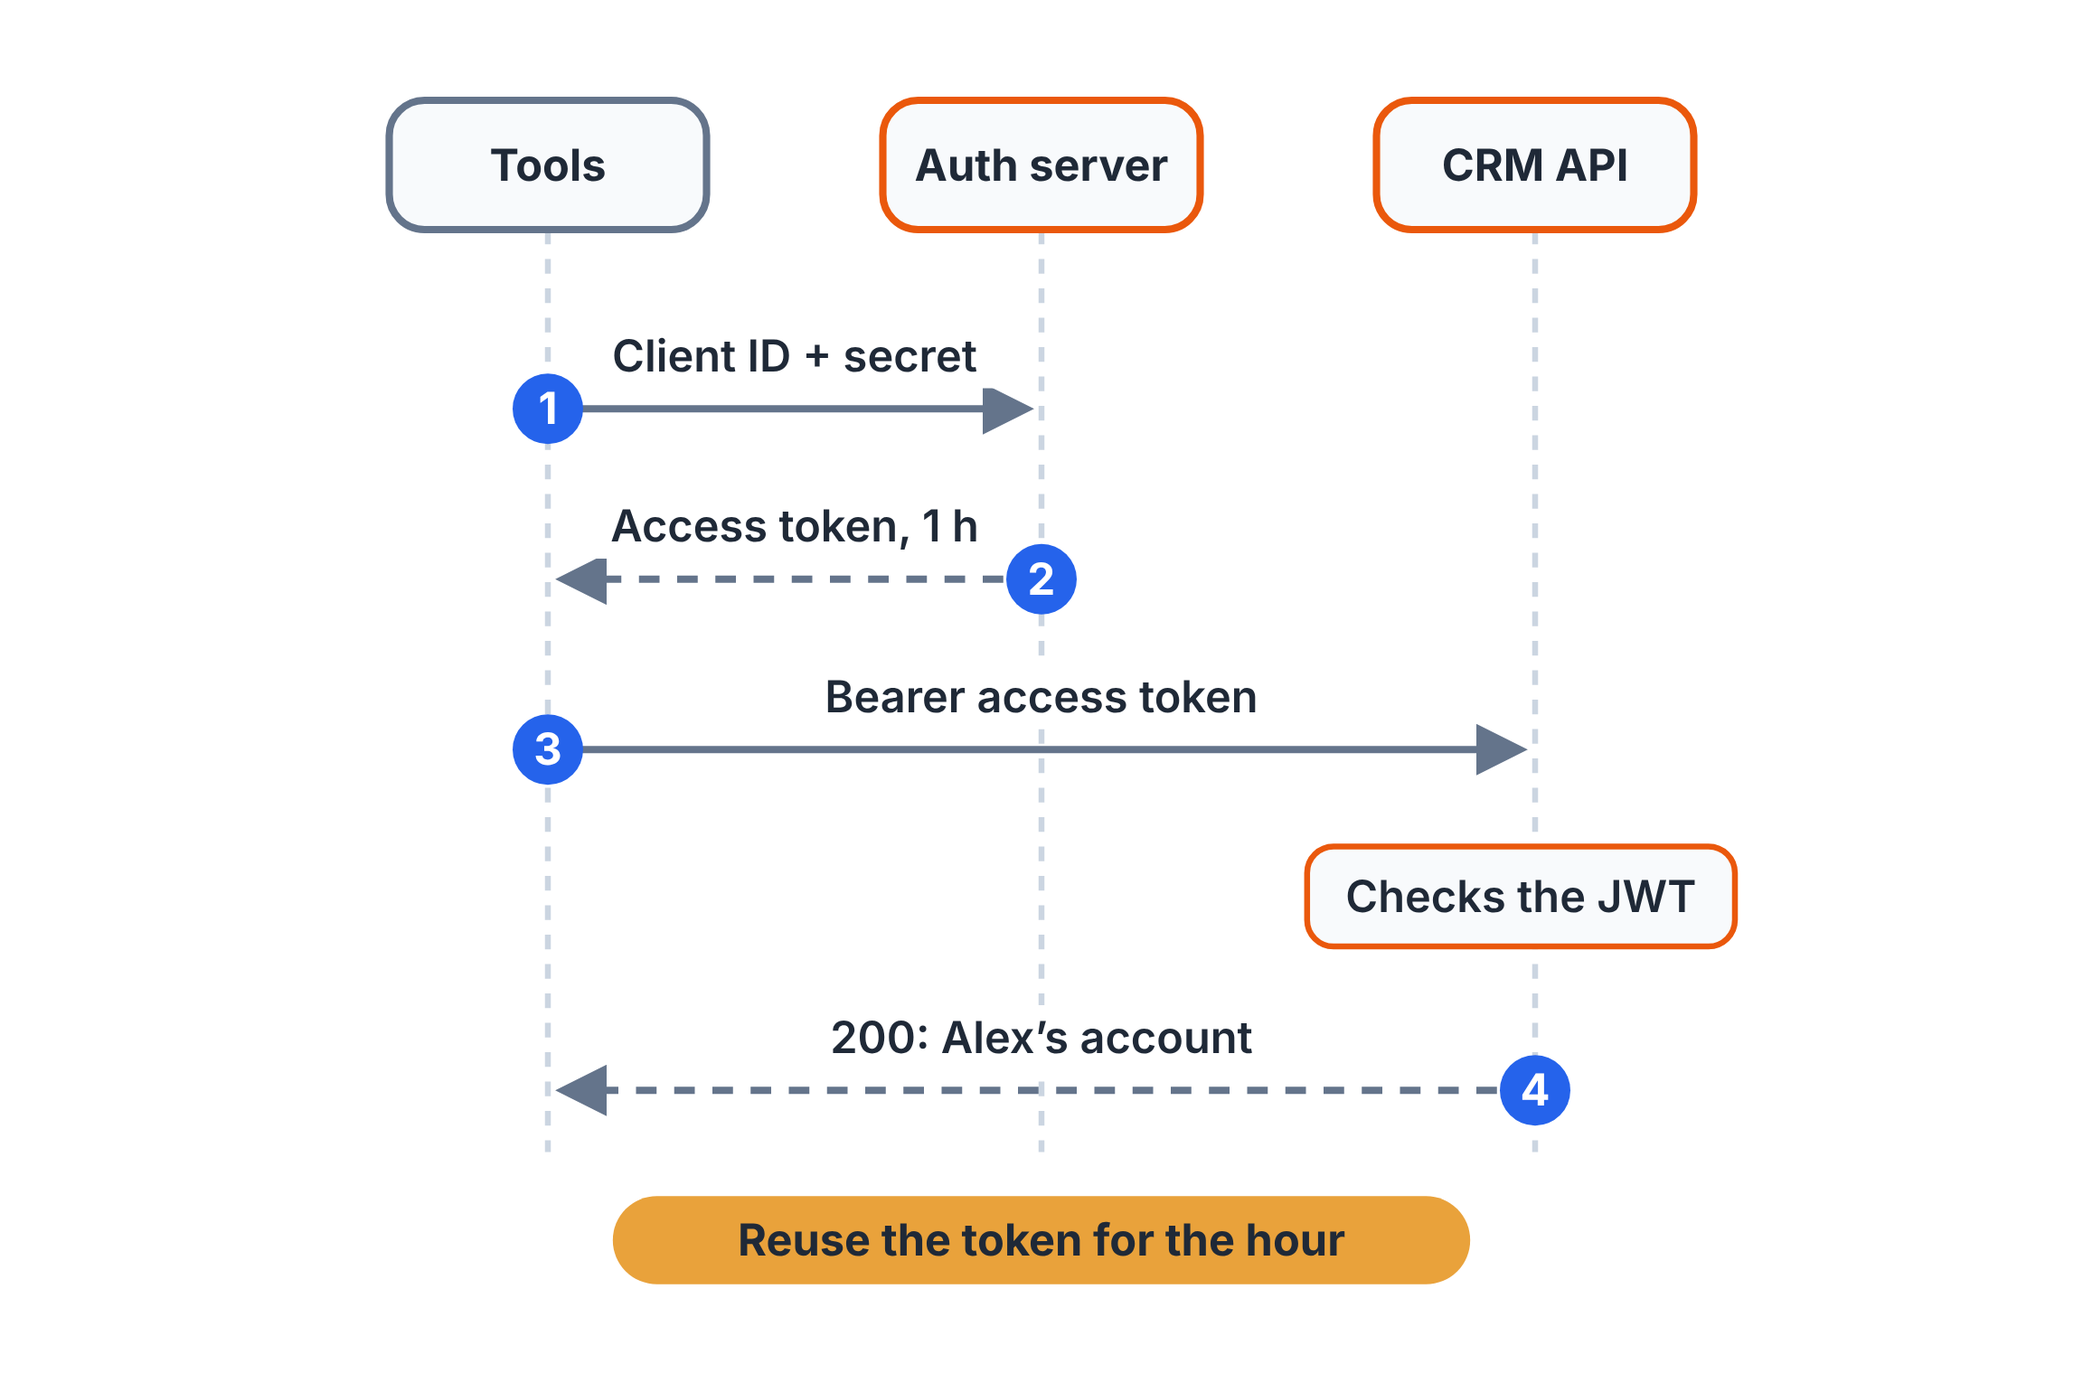
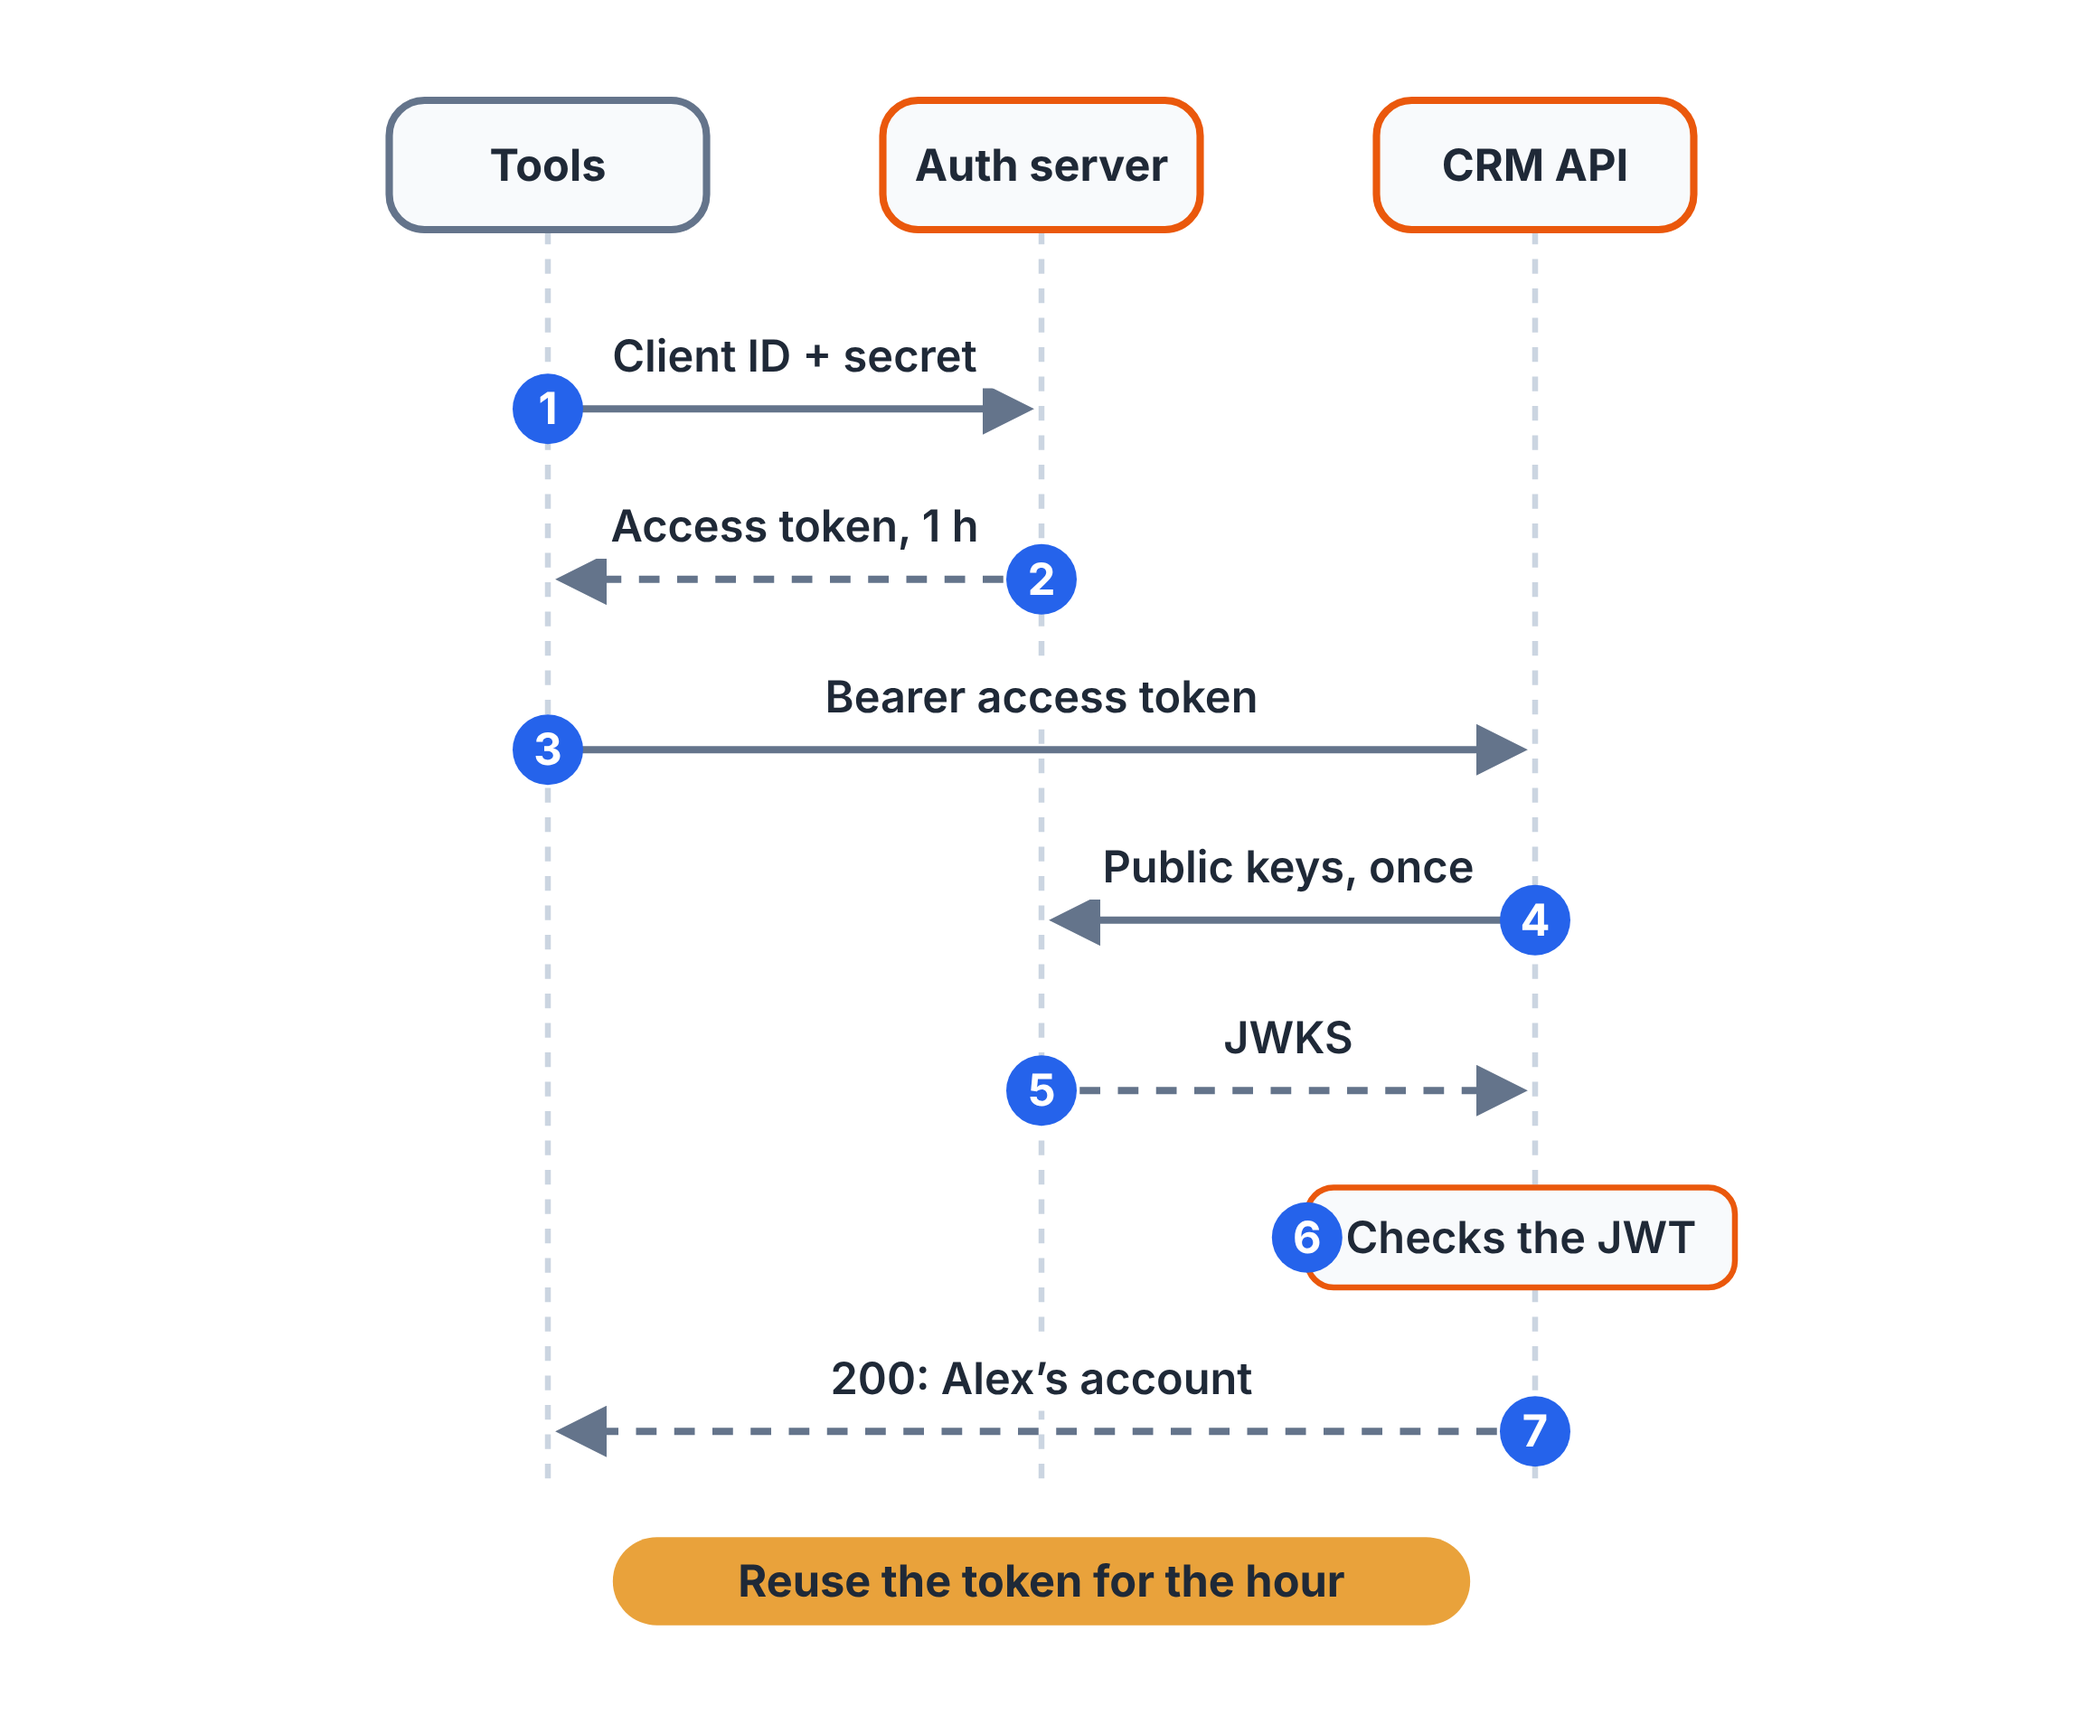
API keys post: show what gets sent, and how the API checks the JWT
- Say that expires_in is a duration, and that the auth server, not the
  client, decides when a token expires.
- Example requests and responses for the CRM call, the calendar call,
  the refresh answer, and the 401 and 403 responses.
- The client credentials figure shows how the API checks the JWT: it
  fetches the auth server's public keys once (4, 5), a JWKS shown as an
  example, and checks the token with them (6). The JWT section refers
  back to these steps.
- Drop the section on keeping credentials out of the model; its rule is
  one sentence in the running example now.

Claude-Session: https://claude.ai/code/session_01Gv2yEyF6HgVGgacTmudrvR

diff --git a/src/components/AuthFigures.tsx b/src/components/AuthFigures.tsx
@@ -41,6 +41,8 @@ interface Message {
   label: string;
   /** Answers are dashed, as in a sequence diagram. */
   reply?: boolean;
+  /** A note that is a step of its own gets a number, like a message. */
+  numbered?: boolean;
 }
 
 /** One row of a sequence: a message, or a line of text across the figure that marks time passing. */
@@ -86,12 +88,14 @@ function Sequence({ id, lanes, rows, tag, tagStep, label }: { id: string; lanes:
         if (r.to === undefined) {
           const w = r.label.length * LABEL * 0.56 + 28;
           const x = Math.min(Math.max(from - w / 2, 4), W - 4 - w);
+          if (r.numbered) n += 1;
           return (
             <g key={i} data-step={r.step ?? n}>
               <rect x={x} y={y - 17} width={w} height={34} rx={9} fill={color('node-bg')} stroke={STROKE[lanes[r.from].role]} strokeWidth={2} />
               <text x={x + w / 2} y={y} dy="0.35em" textAnchor="middle" fontSize={LABEL} fontWeight={600} fill={color('text')}>
                 {r.label}
               </text>
+              {r.numbered && <Badge x={x} y={y} text={String(n)} />}
             </g>
           );
         }
@@ -142,11 +146,13 @@ function ClientCredentials({ id }: { id: string }) {
         { from: 0, to: 1, label: 'Client ID + secret' },
         { from: 1, to: 0, label: 'Access token, 1 h', reply: true },
         { from: 0, to: 2, label: 'Bearer access token' },
-        { from: 2, label: 'Checks the JWT' },
+        { from: 2, to: 1, label: 'Public keys, once' },
+        { from: 1, to: 2, label: 'JWKS', reply: true },
+        { from: 2, label: 'Checks the JWT', numbered: true },
         { from: 2, to: 0, label: '200: Alex’s account', reply: true },
       ]}
       tag="Reuse the token for the hour"
-      tagStep={3}
+      tagStep={7}
     />
   );
 }
@@ -280,7 +286,7 @@ function JwtAnatomy({ id }: { id: string }) {
 
 export const DESCRIPTIONS = {
   'client-credentials':
-    'Client credentials: the tools send the client ID and secret to the CRM’s auth server and get an access token valid for an hour. They send it as a bearer token to the CRM API, which checks the JWT itself and returns Alex’s account.',
+    'Client credentials: the tools send the client ID and secret to the CRM’s auth server and get an access token valid for an hour. They send it as a bearer token to the CRM API, which fetches the auth server’s public keys once, checks the JWT with them and returns Alex’s account.',
   'authorization-code':
     'Authorization code: the advisor clicks Connect calendar in our app, and our backend redirects them to the auth server with the scope, a state value and a PKCE challenge. The advisor logs in and approves; the auth server sends a code back through the browser, and the backend trades code and verifier for an access and a refresh token, then calls the calendar. An hour later it trades the refresh token for a new pair, without the advisor.',
   jwt: 'The CRM’s access token is a JWT in three dot-separated parts. The header names the algorithm and the key; the payload holds the claims iss, sub, aud, scope and exp, readable by anyone; the signature over both is made with the auth server’s private key.',

diff --git a/src/components/AuthMap.tsx b/src/components/AuthMap.tsx
@@ -59,11 +59,6 @@ export const PRESETS = {
     tags: [{ on: 'tools', text: 'Retry once' }],
     description: 'Highlighted: the tools and the three systems, where a call fails with 401 or 403.',
   },
-  model: {
-    focus: ['agent', 'tools'],
-    tags: [{ on: 'agent', text: 'No secrets' }],
-    description: 'Highlighted: the agent and its tools. The agent only names a tool and its arguments; the tools, code, hold the secrets.',
-  },
 } satisfies Record<string, Preset>;
 
 export type PresetName = keyof typeof PRESETS;
